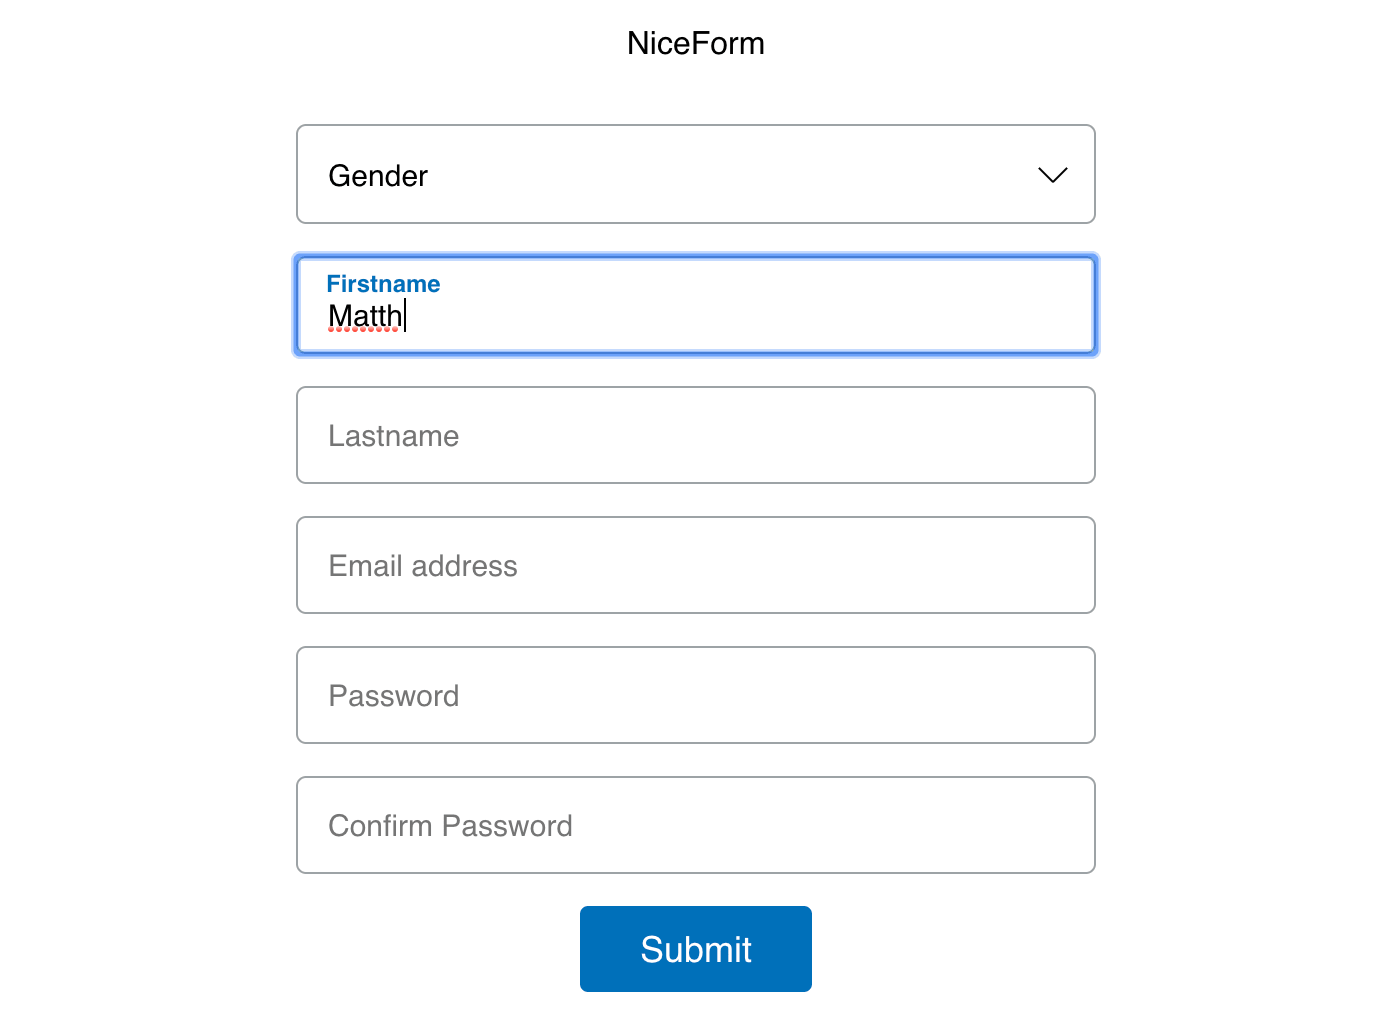
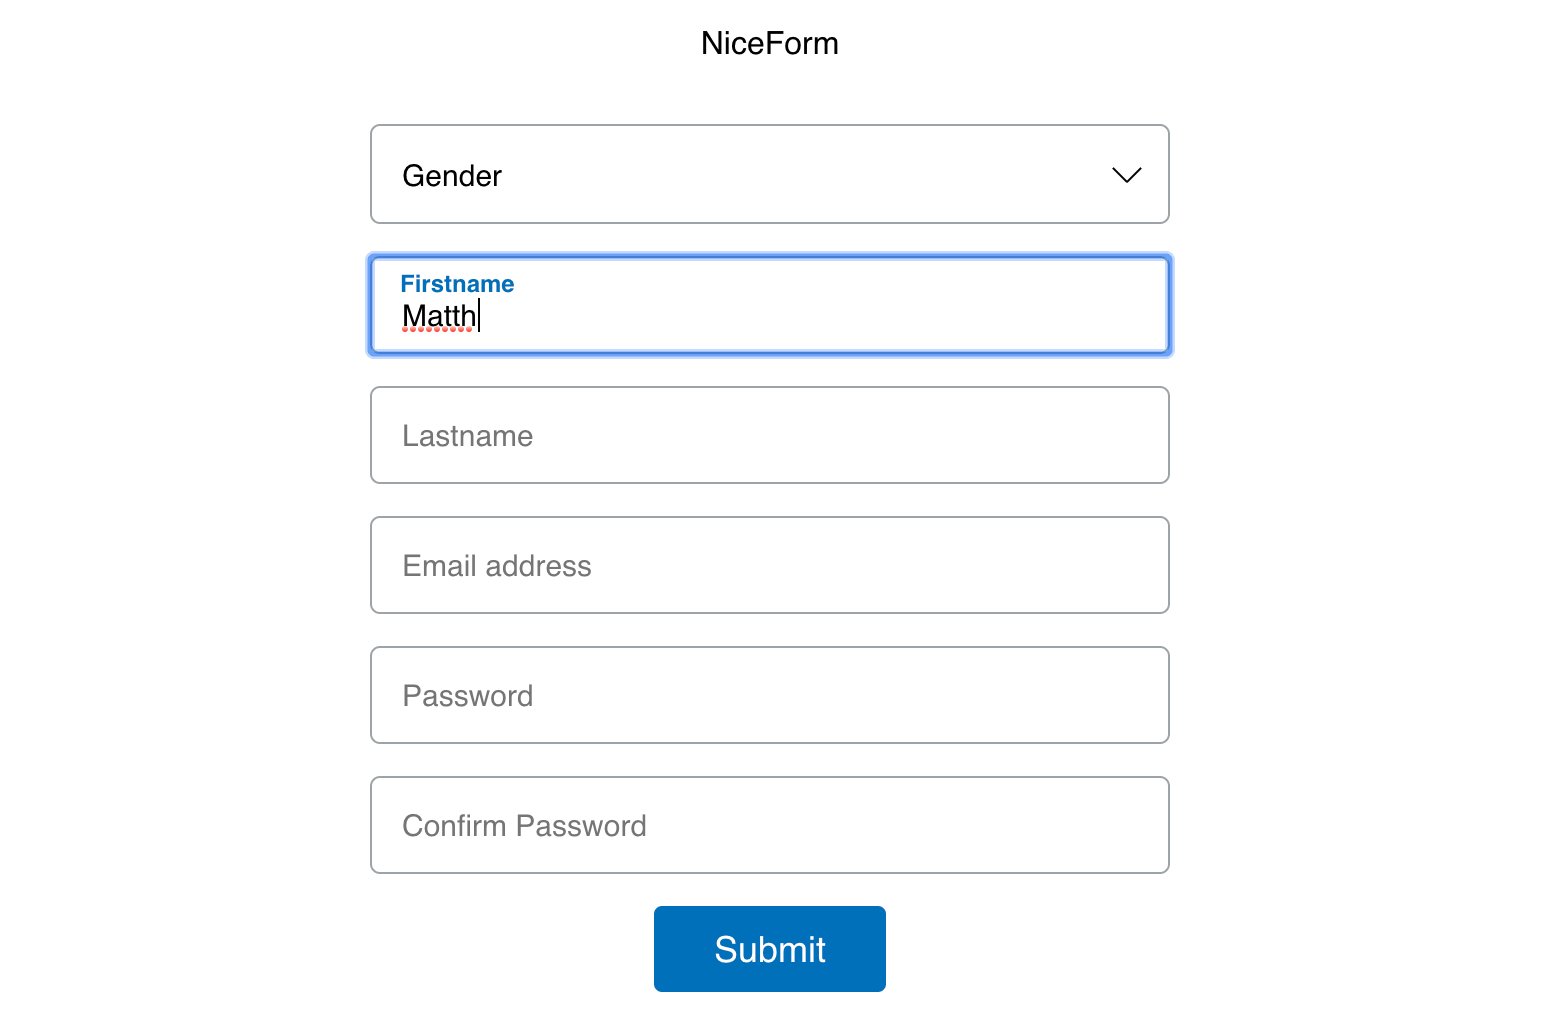
update screen 2

diff --git a/README.md b/README.md
@@ -9,4 +9,4 @@ Chrome 42+, Firefox 45+, Safari 9+, Microsoft Edge
 
 <h2>Screenshot (sample.html)</h2>
 
-![Screenshot](https://raw.githubusercontent.com/alumbo/NiceForm/master/screen.png)
+![Screenshot](https://raw.githubusercontent.com/alumbo/NiceForm/master/screen.png?2)
